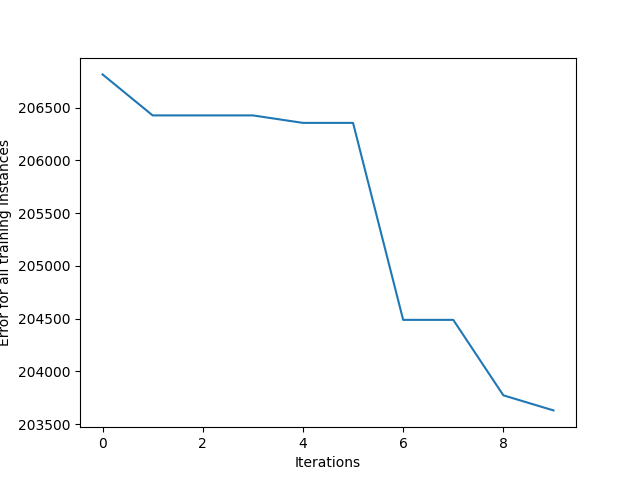
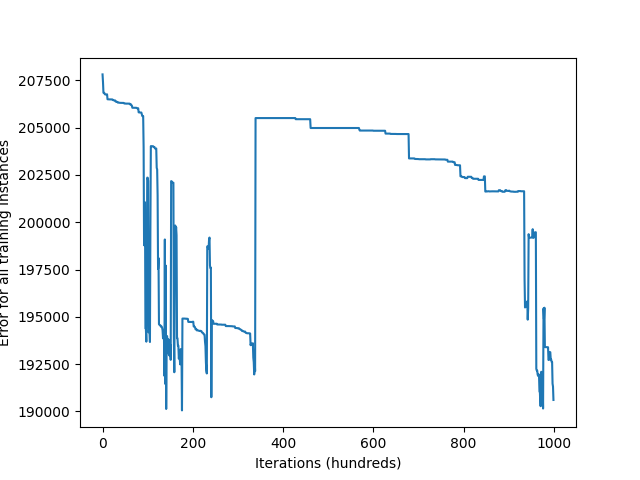
can train the NN

diff --git a/src/PartTwo/NeuralNetwork.py b/src/PartTwo/NeuralNetwork.py
@@ -17,7 +17,7 @@ class NeuralNetwork:
         self.comparingStations = [None] * 5929
 
     def _sigmoid(self, x):
-        print(x)
+        #print(x)
         return 1 / (1 + np.exp(-x))
 
     def _sigmoid_deriv(self, x):
@@ -58,7 +58,7 @@ class NeuralNetwork:
         cumulative_errors = []
         for current_iteration in range(iterations):
             # Pick a data instance at random
-            random_data_index = random.randint(0, len(input_vectors))
+            random_data_index = random.randint(0, len(input_vectors) - 1)
             input_vector = input_vectors[random_data_index]
             target = targets[random_data_index]
 
@@ -69,8 +69,11 @@ class NeuralNetwork:
 
             self._update_parameters(derror_dbias, derror_dweights)
 
+            if (current_iteration % int(iterations/100)) == 0:
+                print(str(int(float(current_iteration/iterations) * 100)) + "%")
             # Measure the cumulative error for all the instances
             if current_iteration % 100 == 0:
+                #print(str(current_iteration) + "/" + str(iterations))
                 cumulative_error = 0
                 # Loop through all the instances to measure the error
                 for data_instance_index in range(len(input_vectors)):
@@ -83,6 +86,7 @@ class NeuralNetwork:
                     cumulative_error = cumulative_error + error
                 cumulative_errors.append(cumulative_error)
 
+        
         return cumulative_errors
 
     def getIndex(self,A,B):
@@ -117,7 +121,7 @@ class NeuralNetwork:
         self.getStationCompare()
         query = 'SELECT distinct rid from nrch_livst_a51'
         rids = db.runQuery(connStr, query)
-        rids = rids[:100]
+        rids = rids[:100]#restricted because else it is a 30min data load
         inputs = np.empty(shape=[0,2],dtype=int)
         targets = np.empty(shape=[0],dtype=int)
         for rid in rids:

diff --git a/src/Main.py b/src/Main.py
@@ -27,16 +27,19 @@ def getK():
 def trainNN():
     neural_network = nn.NeuralNetwork(0.1)
     inputs, targets = neural_network.getNNData()
-    training_error = neural_network.train(inputs,targets,10000)
+    now = datetime.now()
+    current_time = now.strftime("%H:%M:%S")
+    print("Finish Data load=", current_time)
+    training_error = neural_network.train(inputs,targets,100000)#~5000 iter per min
     plt.plot(training_error)
-    plt.xlabel("Iterations")
+    plt.xlabel("Iterations (hundreds)")
     plt.ylabel("Error for all training instances")
     plt.savefig("cumulative_error.png")
 
 now = datetime.now()
 current_time = now.strftime("%H:%M:%S")
-print("Current Time =", current_time)
+print("Start Time =", current_time)
 trainNN()
 now = datetime.now()
 current_time = now.strftime("%H:%M:%S")
-print("Current Time =", current_time)
+print("End Time =", current_time)
